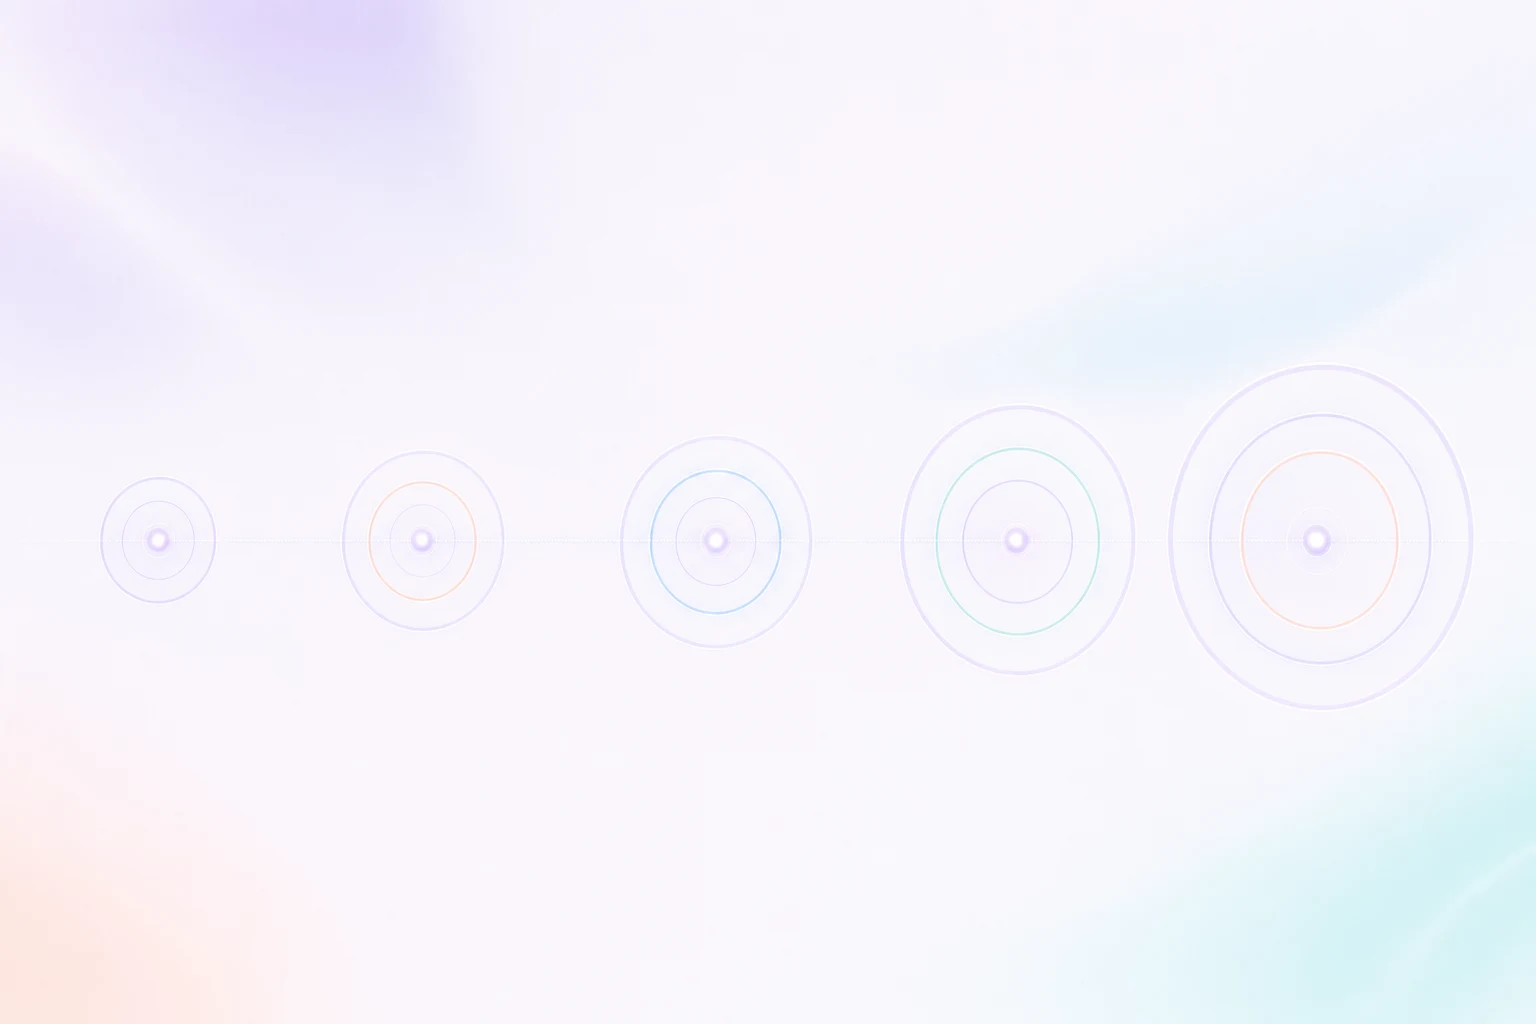
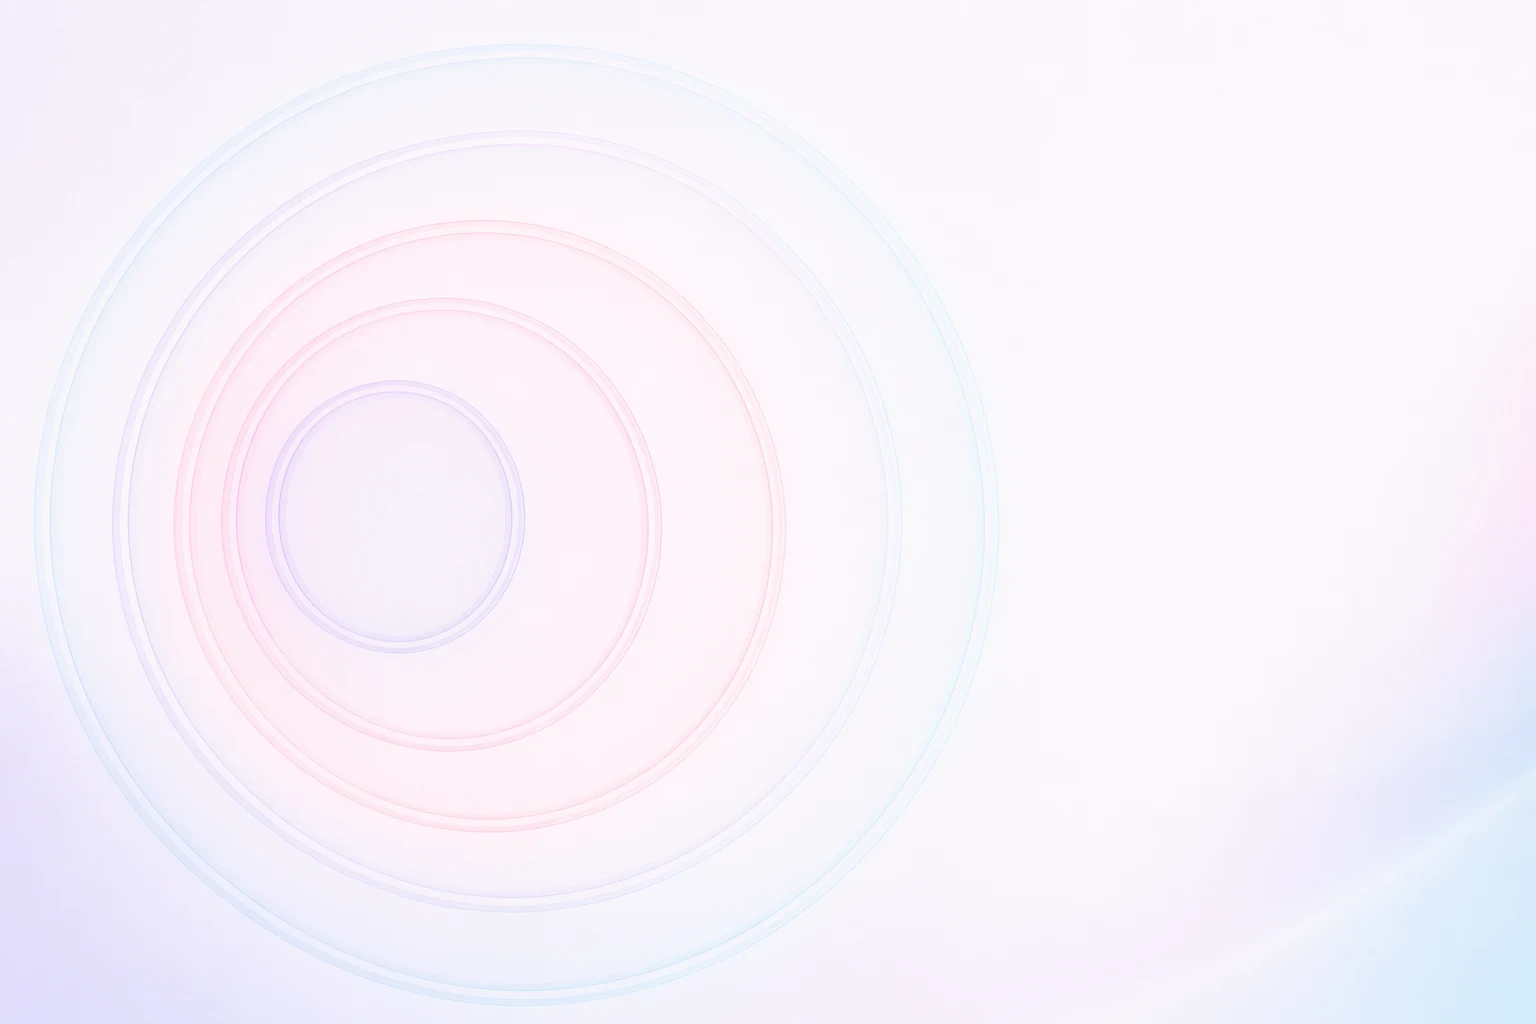
feat(notes/diagrams): correction v3 (Glass Design System 同期 / aurora 3色)
- 図解仕様書 v3 (Notion 8b38762c) = src/app/globals.css の Glass Design System
  を正本に採用。aurora は --aurora-purple / --aurora-pink / --aurora-sky の
  3 色のみで構成し、orange / teal は実装に存在しないので prompt から削除。
- correction-factor-map: chaos-vs-structured。chaosLabels を仕様書通り 8 要因
  (カメラの種類 / 露出 / 色温度 / VEさんのアイリスフォロー / 肌色の一貫性 /
  スモークで生まれる大気の色 / 作品全体のトーン / 曲ごとの方向性) に。
  structuredLayers は { label, sublabel? }[] に拡張し、5 段それぞれに
  サブラベル (カメラ差を揃える / 露出を追う / 色味を揃える / トーンを設計する /
  ルックを当てる) を付与。
- correction-scope-map: zoomed-inset (前回 9f35dc5 で追加した layout) を破棄
  し、仕様書通り keypoint-row + 5 items (glyph: scope) に戻す。AI 画像は
  5 段の同心円クラスタが奥から手前へ柔らかく重なるヒーロービジュアル。
- AI 画像は背景・気分のみを担い、ラベル・番号・小箱・グリフは
  note-diagram.tsx 側の glass トークンで全て描画。
- リポジトリ AGENTS.md のニューモーフィズム記述は実装と乖離しているため
  configs.mjs ヘッダーで無視を明記。

diff --git a/src/lib/notes/diagrams.ts b/src/lib/notes/diagrams.ts
@@ -31,7 +31,10 @@ export type ChaosStructuredDiagram = DiagramBase & {
   chaosHeading: string
   chaosLabels: string[]
   structuredHeading: string
-  structuredLayers: string[]
+  // structuredLayers は { label, sublabel? } で受ける。
+  // 仕様書 v3 では correction-factor-map のように label + 1行説明が対になる
+  // ケースと、filmlook-density-mixture のように label のみのケースが両方ある。
+  structuredLayers: { label: string; sublabel?: string }[]
 }
 
 export type CenteredAxesDiagram = DiagramBase & {
@@ -84,27 +87,28 @@ export const DIAGRAM_REGISTRY: Record<string, DiagramConfig> = {
     layout: "chaos-vs-structured",
     title: "カラーコレクションの因数分解マップ",
     caption:
-      "5000カットの迷宮を、5段の粒度に畳み直す。ライブのカラコレでは、要因を粒度で分けて管理することがそのまま作業効率になる。",
-    alt: "左側に色温度や肌、シーントーンなどが混線したカオス、右側にカメラ単位からシーン単位までの5段レイヤーへ整理された状態を示す横長図解",
+      "ライブのカラコレでは、補正要因が同じ画に重なる。混ざったままでは戻せないが、粒度に分ければ独立に制御できる。",
+    alt: "左半分に補正要因が緩く混ざるカオス、右半分にカメラ単位から作品単位までの5段に整列した状態を示す左右対比の横長図解",
     aspect: { width: 1536, height: 1024 },
-    intro: "左→右で読む。混線していた要因が、5段の粒度に整列するところを掴む。",
-    chaosHeading: "整理前 — 混線した補正要因",
+    intro: "混ぜたら迷う。粒度に分けると制御できる。",
+    chaosHeading: "混ざると迷宮",
     chaosLabels: [
-      "カメラ差",
-      "露出揺れ",
+      "カメラの種類",
+      "露出",
       "色温度",
-      "肌",
-      "大気",
-      "シーントーン",
-      "作品ルック",
+      "VEさんのアイリスフォロー",
+      "肌色の一貫性",
+      "スモークで生まれる大気の色",
+      "作品全体のトーン",
+      "曲ごとの方向性",
     ],
-    structuredHeading: "整理後 — 5段の粒度レイヤー",
+    structuredHeading: "分けると制御できる",
     structuredLayers: [
-      "カメラ単位",
-      "フレーム単位",
-      "アングル単位",
-      "シーン単位",
-      "作品単位",
+      { label: "カメラ単位", sublabel: "カメラ差を揃える" },
+      { label: "フレーム単位", sublabel: "露出を追う" },
+      { label: "アングル単位", sublabel: "色味を揃える" },
+      { label: "シーン単位", sublabel: "トーンを設計する" },
+      { label: "作品単位", sublabel: "ルックを当てる" },
     ],
   },
   "grading-look-decomposition": {
@@ -170,41 +174,41 @@ export const DIAGRAM_REGISTRY: Record<string, DiagramConfig> = {
   "correction-scope-map": {
     slug: "correction-scope-map",
     layout: "keypoint-row",
-    title: "粒度ごとの「適用範囲」ミニ図",
+    title: "粒度 = 適用範囲",
     caption:
-      "「どの粒度で動かすか」は、「どの範囲を一度に動かすか」と同じこと。粒度を取り違えると、戻したい範囲を戻せなくなる。",
-    alt: "カメラ単位、フレーム単位、アングル単位、シーン単位、作品単位の5段階それぞれが、どこまでの範囲を支配するかを並べたキーポイント図解",
+      "同じ補正でも、どこまで効くかは粒度ごとに違う。5段を並べると、混ぜてはいけない理由が分かる。",
+    alt: "カメラ単位、フレーム単位、アングル単位、シーン単位、作品単位の5段それぞれが支配する適用範囲を、5段の同心円クラスタで示すヒーロービジュアルに並ぶキーポイント図解",
     aspect: { width: 1536, height: 1024 },
-    intro: "粒度 = 適用範囲。並べて見ると、混ぜてはいけない理由が分かる。",
-    itemsHeading: "5段の粒度 — 何を支配するか",
+    intro: "粒度 = 適用範囲。",
+    itemsHeading: "粒度 = 適用範囲",
     items: [
       {
         glyph: "scope",
         label: "カメラ単位",
-        sublabel: "同じカメラの全カットに効く。センサー差・レンズ個体差を均す。",
+        sublabel: "同じカメラ全カットに効く",
       },
       {
         glyph: "scope",
         label: "フレーム単位",
-        sublabel: "1カット内のフレームごとに動く。露出揺れ・雲の流れに追従する。",
+        sublabel: "同条件 ±EV の 1 枚ぶん",
       },
       {
         glyph: "scope",
         label: "アングル単位",
-        sublabel: "同アングルの別テイクに揃う。色温度・スモーク量の差を吸収する。",
+        sublabel: "同アングル別テイクに効く",
       },
       {
         glyph: "scope",
         label: "シーン単位",
-        sublabel: "同シーンの全カットに乗る。空気感・トーンの一貫性を担う。",
+        sublabel: "シーン全体のトーンに効く",
       },
       {
         glyph: "scope",
         label: "作品単位",
-        sublabel: "全カットの基底に効く。ルック全体のベースを置く。",
+        sublabel: "作品全体のルックに効く",
       },
     ],
-    takeaway: "粒度を取り違えると、戻したい範囲だけを戻せなくなる。",
+    takeaway: "粒度を取り違えると、迷宮に戻る。",
   },
   "grading-words-to-knobs": {
     slug: "grading-words-to-knobs",

diff --git a/src/components/notes/note-diagram.tsx b/src/components/notes/note-diagram.tsx
@@ -211,13 +211,20 @@ function ChaosStructuredBody({ config }: { config: ChaosStructuredDiagram }) {
         <ol className="mt-2 space-y-1.5">
           {config.structuredLayers.map((layer, i) => (
             <li
-              key={layer}
-              className="flex items-center gap-2 rounded-[12px] border border-white/55 bg-white/40 px-3 py-1.5 text-xs text-hp md:text-[0.85rem]"
+              key={layer.label}
+              className="rounded-[12px] border border-white/55 bg-white/40 px-3 py-1.5 text-xs text-hp md:text-[0.85rem]"
             >
-              <span className="font-[var(--font-geist-mono)] text-[10px] text-hp-muted md:text-[11px]">
-                L{i + 1}
-              </span>
-              <span>{layer}</span>
+              <p className="flex items-center gap-2">
+                <span className="font-[var(--font-geist-mono)] text-[10px] text-hp-muted md:text-[11px]">
+                  L{i + 1}
+                </span>
+                <span className="font-semibold">{layer.label}</span>
+              </p>
+              {layer.sublabel ? (
+                <p className="mt-0.5 pl-6 text-[11px] leading-relaxed text-hp-muted md:text-[0.74rem]">
+                  {layer.sublabel}
+                </p>
+              ) : null}
             </li>
           ))}
         </ol>
